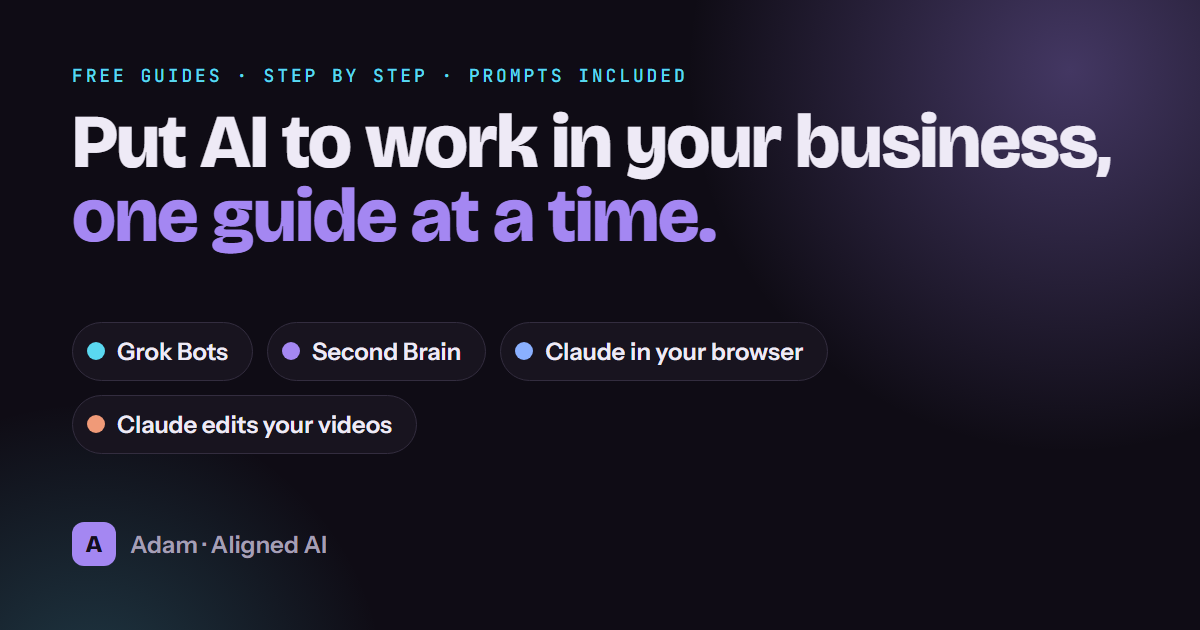
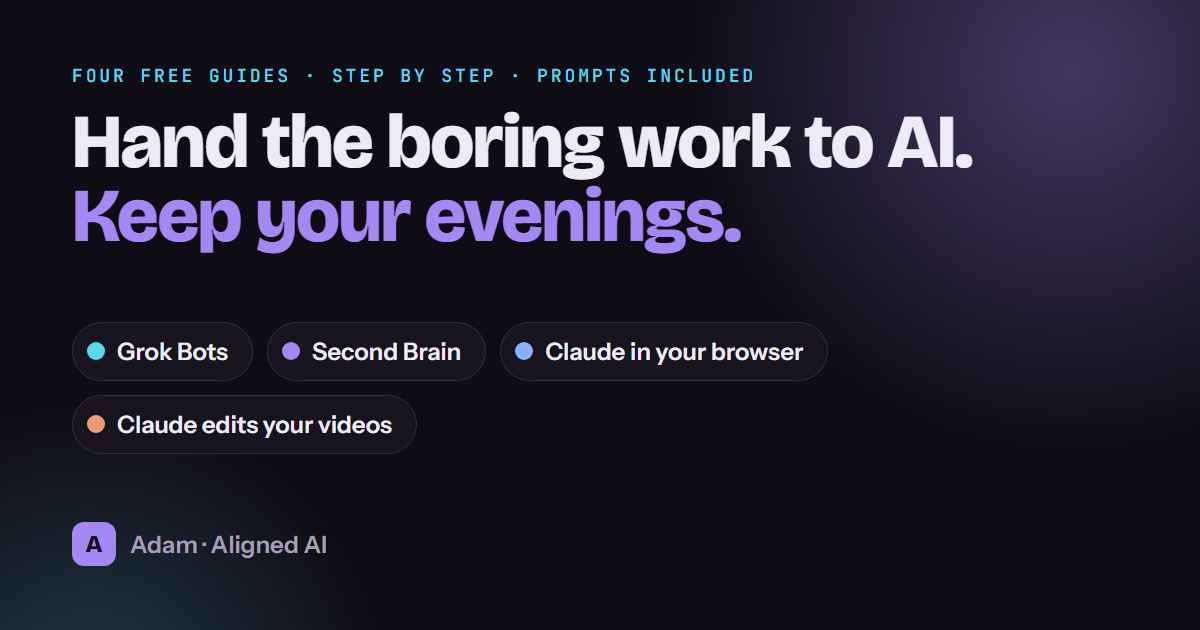
Hub: benefit-led headline and share text

Changed region(s): [[0.0617, 0.181, 0.925, 0.4222], [0.1233, 0.0905, 0.6167, 0.1508], [0.0617, 0.0905, 0.0925, 0.1508]]

diff --git a/guides.html b/guides.html
@@ -3,20 +3,20 @@
 <head>
 <meta charset="utf-8">
 <meta name="viewport" content="width=device-width, initial-scale=1, viewport-fit=cover">
-<title>Free AI guides from Adam</title>
-<meta name="description" content="Four free step-by-step guides for small business owners: a team of Grok Bots, a Second Brain with Obsidian and Claude Code, Claude in your browser, and Claude editing your videos. Prompts included.">
+<title>Free guides from Adam</title>
+<meta name="description" content="Hand the boring work to AI and keep your evenings. Four free step-by-step guides for healers, therapists and small business owners: posts drafted, admin done, videos edited, ideas filed. Prompts included.">
 <meta property="og:type" content="website">
 <meta property="og:site_name" content="Aligned AI">
-<meta property="og:title" content="Free AI guides from Adam, Aligned AI">
-<meta property="og:description" content="Pick the guide that matches your biggest time sink. Step by step, prompts ready to copy, honest about the limits.">
+<meta property="og:title" content="Hand the boring work to AI. Keep your evenings.">
+<meta property="og:description" content="Four free guides from Adam, Aligned AI: posts drafted, admin done, videos edited without an editor, ideas filed as you talk. Step by step, prompts included.">
 <meta property="og:url" content="https://meditationgardens369.github.io/Adam-vision-pages/guides.html">
 <meta property="og:image" content="https://meditationgardens369.github.io/Adam-vision-pages/assets/hub/og.png">
 <meta property="og:image:width" content="1200">
 <meta property="og:image:height" content="630">
-<meta property="og:image:alt" content="Free AI guides from Adam: Grok Bots, Second Brain, Claude in your browser, Claude edits your videos">
+<meta property="og:image:alt" content="Hand the boring work to AI. Keep your evenings. Four free guides from Adam, Aligned AI.">
 <meta name="twitter:card" content="summary_large_image">
-<meta name="twitter:title" content="Free AI guides from Adam, Aligned AI">
-<meta name="twitter:description" content="Pick the guide that matches your biggest time sink. Step by step, prompts ready to copy.">
+<meta name="twitter:title" content="Hand the boring work to AI. Keep your evenings.">
+<meta name="twitter:description" content="Four free guides from Adam, Aligned AI. Step by step, prompts included.">
 <meta name="twitter:image" content="https://meditationgardens369.github.io/Adam-vision-pages/assets/hub/og.png">
 <meta name="theme-color" content="#6B3FD4" media="(prefers-color-scheme: light)">
 <meta name="theme-color" content="#0F0C15" media="(prefers-color-scheme: dark)">
@@ -285,8 +285,8 @@ footer a{color:var(--muted)}
 
 <header class="hero">
   <div class="eyebrow">Free guides · step by step · prompts included</div>
-  <h1>Put AI to work in your business, <em>one guide at a time.</em></h1>
-  <p class="lede">For small business owners, healers and practitioners with no spare week to learn AI. Pick the one that matches where your time goes.</p>
+  <h1>Hand the boring work to AI. <em>Keep your evenings.</em></h1>
+  <p class="lede">Four free guides for healers, therapists and small business owners. Posts drafted. Admin done. Videos edited without an editor. Ideas filed as you talk. Pick the one that matches where your week goes.</p>
   <nav class="jump" id="jump" aria-label="Jump to a guide"></nav>
 </header>
 
